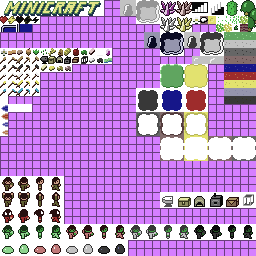
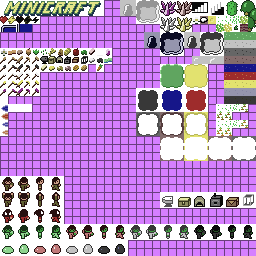
carrots and potatoes
why is it null???

diff --git a/src/main/java/com/mojang/ld22/level/tile/CarrotTile.java b/src/main/java/com/mojang/ld22/level/tile/CarrotTile.java
@@ -1,0 +1,99 @@
+package com.mojang.ld22.level.tile;
+
+import com.mojang.ld22.entity.Entity;
+import com.mojang.ld22.entity.ItemEntity;
+import com.mojang.ld22.entity.Mob;
+import com.mojang.ld22.entity.Player;
+import com.mojang.ld22.gfx.Screen;
+import com.mojang.ld22.item.Item;
+import com.mojang.ld22.item.ResourceItem;
+import com.mojang.ld22.item.ToolItem;
+import com.mojang.ld22.item.ToolType;
+import com.mojang.ld22.item.resource.Resource;
+import com.mojang.ld22.level.Level;
+
+public class CarrotTile extends Tile {
+    public CarrotTile(int id) {
+        super(id);
+    }
+
+    public void render(Screen screen, Level level, int x, int y) {
+        Tile.farmland.render(screen, level, x, y);
+
+        int age = level.getData(x, y);
+        int icon = age / 10;
+        int xt = 27;
+        int yt = 15 * 32;
+
+        if (icon == 1) {
+            xt++;
+        } else if (icon == 2) {
+            xt += 2;
+        } else if (icon == 3) {
+            xt += 3;
+        } else if (icon == 4) {
+            yt += 32;
+        } else if (icon == 5) {
+            xt += 1;
+            yt += 32;
+        }
+
+        screen.renderSprite(x * 16, y * 16, xt + yt, 2, 0);
+        screen.renderSprite(x * 16 + 8, y * 16, xt + yt, 2, 0);
+        screen.renderSprite(x * 16, y * 16 + 8, xt + yt, 2, 1);
+        screen.renderSprite(x * 16 + 8, y * 16 + 8, xt + yt, 2, 1);
+    }
+
+    public void tick(Level level, int xt, int yt) {
+        if (this.random.nextInt(2) == 0) {
+            return;
+        }
+
+        int age = level.getData(xt, yt);
+        if (age < 50) {
+            level.setData(xt, yt, age + 1);
+        }
+    }
+
+    public boolean interact(Level level, int xt, int yt, Player player, Item item, int attackDir) {
+        if (item instanceof ToolItem tool) {
+            if (tool.type == ToolType.shovel) {
+                if (player.payStamina(4 - tool.level)) {
+                    level.setTile(xt, yt, Tile.dirt, 0);
+                    return true;
+                }
+            }
+        }
+        return false;
+    }
+
+    public void steppedOn(Level level, int xt, int yt, Entity entity) {
+        if (this.random.nextInt(60) != 0) {
+            return;
+        }
+        if (level.getData(xt, yt) < 2) {
+            return;
+        }
+        harvest(level, xt, yt);
+    }
+
+    public void hurt(Level level, int x, int y, Mob source, int dmg, int attackDir) {
+        harvest(level, x, y);
+    }
+
+    private void harvest(Level level, int x, int y) {
+        int age = level.getData(x, y);
+
+        int count = 0;
+        if (age == 50) {
+            count = this.random.nextInt(3) + 2;
+        } else if (age >= 40) {
+            count = this.random.nextInt(2) + 1;
+        }
+        for (int i = 0; i < count; i++) {
+            level.add(new ItemEntity(new ResourceItem(Resource.carrot), x * 16 + this.random.nextInt(10) + 3, y * 16 + this.random.nextInt(10) + 3));
+        }
+
+        level.setTile(x, y, Tile.dirt, 0);
+    }
+}

diff --git a/src/main/java/com/mojang/ld22/level/tile/PotatoTile.java b/src/main/java/com/mojang/ld22/level/tile/PotatoTile.java
@@ -1,0 +1,99 @@
+package com.mojang.ld22.level.tile;
+
+import com.mojang.ld22.entity.Entity;
+import com.mojang.ld22.entity.ItemEntity;
+import com.mojang.ld22.entity.Mob;
+import com.mojang.ld22.entity.Player;
+import com.mojang.ld22.gfx.Screen;
+import com.mojang.ld22.item.Item;
+import com.mojang.ld22.item.ResourceItem;
+import com.mojang.ld22.item.ToolItem;
+import com.mojang.ld22.item.ToolType;
+import com.mojang.ld22.item.resource.Resource;
+import com.mojang.ld22.level.Level;
+
+public class PotatoTile extends Tile {
+    public PotatoTile(int id) {
+        super(id);
+    }
+
+    public void render(Screen screen, Level level, int x, int y) {
+        Tile.farmland.render(screen, level, x, y);
+
+        int age = level.getData(x, y);
+        int icon = age / 10;
+        int xt = 27;
+        int yt = 13 * 32;
+
+        if (icon == 1) {
+            xt++;
+        } else if (icon == 2) {
+            xt += 2;
+        } else if (icon == 3) {
+            xt += 3;
+        } else if (icon == 4) {
+            yt += 32;
+        } else if (icon == 5) {
+            xt += 1;
+            yt += 32;
+        }
+
+        screen.renderSprite(x * 16, y * 16, xt + yt, 2, 0);
+        screen.renderSprite(x * 16 + 8, y * 16, xt + yt, 2, 0);
+        screen.renderSprite(x * 16, y * 16 + 8, xt + yt, 2, 1);
+        screen.renderSprite(x * 16 + 8, y * 16 + 8, xt + yt, 2, 1);
+    }
+
+    public void tick(Level level, int xt, int yt) {
+        if (this.random.nextInt(2) == 0) {
+            return;
+        }
+
+        int age = level.getData(xt, yt);
+        if (age < 50) {
+            level.setData(xt, yt, age + 1);
+        }
+    }
+
+    public boolean interact(Level level, int xt, int yt, Player player, Item item, int attackDir) {
+        if (item instanceof ToolItem tool) {
+            if (tool.type == ToolType.shovel) {
+                if (player.payStamina(4 - tool.level)) {
+                    level.setTile(xt, yt, Tile.dirt, 0);
+                    return true;
+                }
+            }
+        }
+        return false;
+    }
+
+    public void steppedOn(Level level, int xt, int yt, Entity entity) {
+        if (this.random.nextInt(60) != 0) {
+            return;
+        }
+        if (level.getData(xt, yt) < 2) {
+            return;
+        }
+        harvest(level, xt, yt);
+    }
+
+    public void hurt(Level level, int x, int y, Mob source, int dmg, int attackDir) {
+        harvest(level, x, y);
+    }
+
+    private void harvest(Level level, int x, int y) {
+        int age = level.getData(x, y);
+
+        int count = 0;
+        if (age == 50) {
+            count = this.random.nextInt(3) + 2;
+        } else if (age >= 40) {
+            count = this.random.nextInt(2) + 1;
+        }
+        for (int i = 0; i < count; i++) {
+            level.add(new ItemEntity(new ResourceItem(Resource.potato), x * 16 + this.random.nextInt(10) + 3, y * 16 + this.random.nextInt(10) + 3));
+        }
+
+        level.setTile(x, y, Tile.dirt, 0);
+    }
+}

diff --git a/src/main/java/com/mojang/ld22/level/tile/GrassTile.java b/src/main/java/com/mojang/ld22/level/tile/GrassTile.java
@@ -80,6 +80,12 @@ public class GrassTile extends Tile {
                     if (this.random.nextInt(5) == 0) {
                         level.add(new ItemEntity(new ResourceItem(Resource.seeds), xt * 16 + this.random.nextInt(10) + 3, yt * 16 + this.random.nextInt(10) + 3));
                         return true;
+                    } else if (this.random.nextInt(7) == 0) {
+                        level.add(new ItemEntity(new ResourceItem(Resource.potato), xt * 16 + this.random.nextInt(10) + 3, yt * 16 + this.random.nextInt(10) + 3));
+                        return true;
+                    } else if (this.random.nextInt(8) == 0) {
+                        level.add(new ItemEntity(new ResourceItem(Resource.carrot), xt * 16 + this.random.nextInt(10) + 3, yt * 16 + this.random.nextInt(10) + 3));
+                        return true;
                     }
                 }
             }
@@ -88,6 +94,12 @@ public class GrassTile extends Tile {
                     Sound.play(Sound.Event.MONSTER_HURT, 1.0f);
                     if (this.random.nextInt(5) == 0) {
                         level.add(new ItemEntity(new ResourceItem(Resource.seeds), xt * 16 + this.random.nextInt(10) + 3, yt * 16 + this.random.nextInt(10) + 3));
+                        return true;
+                    } else if (this.random.nextInt(7) == 0) {
+                        level.add(new ItemEntity(new ResourceItem(Resource.potato), xt * 16 + this.random.nextInt(10) + 3, yt * 16 + this.random.nextInt(10) + 3));
+                        return true;
+                    } else if (this.random.nextInt(8) == 0) {
+                        level.add(new ItemEntity(new ResourceItem(Resource.carrot), xt * 16 + this.random.nextInt(10) + 3, yt * 16 + this.random.nextInt(10) + 3));
                         return true;
                     }
                     level.setTile(xt, yt, Tile.farmland, 0);

diff --git a/src/main/java/com/mojang/ld22/item/resource/Resource.java b/src/main/java/com/mojang/ld22/item/resource/Resource.java
@@ -5,6 +5,8 @@ import com.mojang.ld22.gfx.SpriteSheet;
 import com.mojang.ld22.level.Level;
 import com.mojang.ld22.level.tile.Tile;
 
+import java.util.Arrays;
+
 public class Resource {
     public static Resource wood = new Resource("Wood", 1 + 6 * 32);
     public static Resource stone = new Resource("Stone", 11 + 7 * 32);
@@ -17,6 +19,10 @@ public class Resource {
     public static Resource wheat = new Resource("Wheat", 6 + 6 * 32);
     public static Resource bread = new FoodResource("Bread", 8 + 6 * 32, 2, 5);
     public static Resource apple = new FoodResource("Apple", 9 + 6 * 32, 1, 5);
+
+    public static Resource carrot = new PlantableFoodResource("Carrot", SpriteSheet.uvTile(96, 64), 1, 5, Tile.carrot, Arrays.asList(Tile.farmland));
+    public static Resource potato = new PlantableFoodResource("Potato", SpriteSheet.uvTile(80, 64), 1, 5, Tile.potato, Arrays.asList(Tile.farmland));
+    public static Resource bakedPotato = new FoodResource("B. Pot", SpriteSheet.uvTile(72, 64), 2, 5);
 
     public static Resource coal = new Resource("COAL", SpriteSheet.uvTile(96, 56));
     public static Resource ironOre = new Resource("I.ORE", SpriteSheet.uvTile(64, 64));

diff --git a/src/main/java/com/mojang/ld22/item/resource/PlantableFoodResource.java b/src/main/java/com/mojang/ld22/item/resource/PlantableFoodResource.java
@@ -1,0 +1,34 @@
+package com.mojang.ld22.item.resource;
+
+import com.mojang.ld22.entity.Player;
+import com.mojang.ld22.level.Level;
+import com.mojang.ld22.level.tile.Tile;
+
+import java.util.Arrays;
+import java.util.List;
+
+public class PlantableFoodResource extends Resource {
+    private final List<Tile> sourceTiles;
+    private final Tile targetTile;
+    private final int heal;
+    private final int staminaCost;
+
+    public PlantableFoodResource(String name, int sprite, int heal, int staminaCost, Tile targetTile, List<Tile> sourceTiles) {
+        super(name, sprite);
+        this.heal = heal;
+        this.staminaCost = staminaCost;
+        this.sourceTiles = sourceTiles;
+        this.targetTile = targetTile;
+    }
+
+    public boolean interactOn(Tile tile, Level level, int xt, int yt, Player player, int attackDir) {
+        if (this.sourceTiles.contains(tile)) {
+            level.setTile(xt, yt, this.targetTile, 0);
+            return true;
+        } else if (player.health < player.maxHealth && player.payStamina(this.staminaCost)) {
+            player.heal(this.heal);
+            return true;
+        }
+        return false;
+    }
+}

diff --git a/src/main/java/com/mojang/ld22/Game.java b/src/main/java/com/mojang/ld22/Game.java
@@ -7,6 +7,7 @@ import java.awt.image.BufferStrategy;
 import java.awt.image.BufferedImage;
 import java.awt.image.DataBufferInt;
 import java.io.IOException;
+import java.lang.reflect.Field;
 import java.nio.file.Path;
 import java.util.Arrays;
 import java.util.Objects;
@@ -18,6 +19,7 @@ import com.mojang.ld22.entity.Player;
 import com.mojang.ld22.gfx.Font;
 import com.mojang.ld22.gfx.Screen;
 import com.mojang.ld22.gfx.SpriteSheet;
+import com.mojang.ld22.item.resource.Resource;
 import com.mojang.ld22.level.Level;
 import com.mojang.ld22.level.tile.Tile;
 import com.mojang.ld22.screen.PauseMenu;

diff --git a/src/main/java/com/mojang/ld22/level/tile/Tile.java b/src/main/java/com/mojang/ld22/level/tile/Tile.java
@@ -38,6 +38,8 @@ public class Tile {
     public static Tile goldOre = new OreTile(20, Resource.goldOre);
     public static Tile gemOre = new OreTile(21, Resource.gem);
     public static Tile cloudCactus = new CloudCactusTile(22);
+    public static Tile potato = new PotatoTile(23);
+    public static Tile carrot = new CarrotTile(24);
 
     public final byte id;
 
